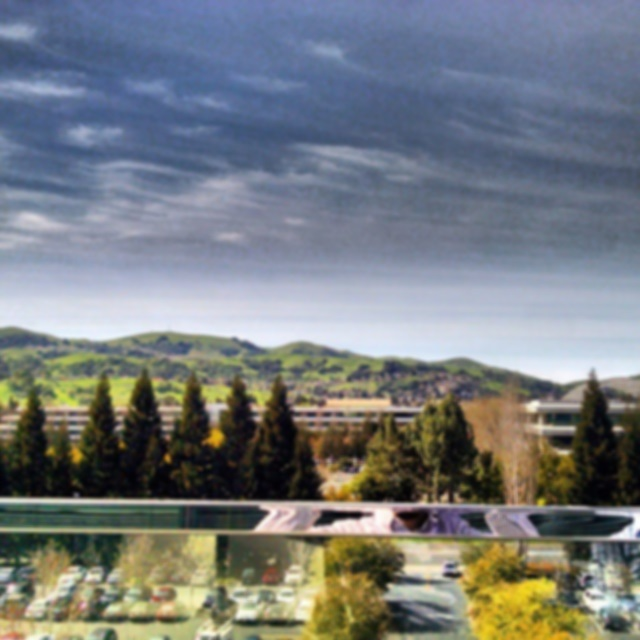
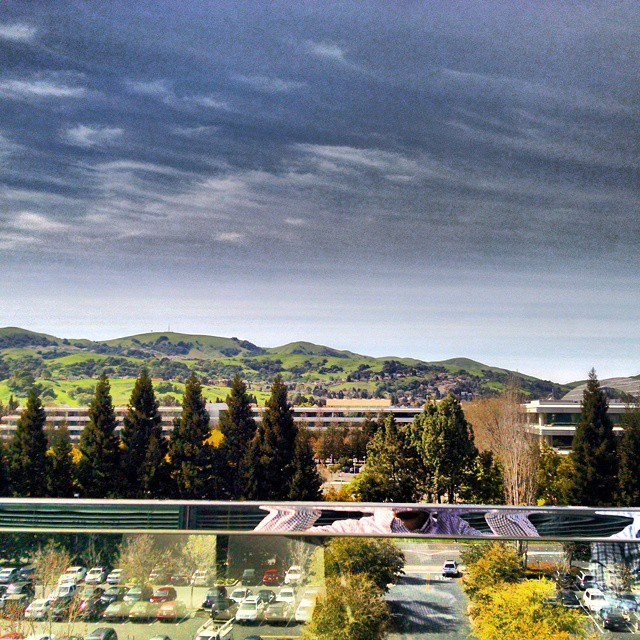
new stories, image optimizations. Remove fixed background-attachment due to bug with retina Macs

Changed region(s): [[0.0, 0.5, 1.0, 1.0]]

diff --git a/stories/stories.js b/stories/stories.js
@@ -11,19 +11,19 @@ module.exports = [
     {
       'title': 'Next Gen Ops API Architect',
       'date': 'Sept. 2014',
-      'imgSrc': 'ge_itlp100_pitch.jpg',
+      'imgSrc': 'itlp100_pitch.jpg',
       'imgDesc' : 'My team\'s final pitchout during ITLP initial training. We earned <a href="http://instagram.com/p/chefBfHLLW/">top honors</a> for our solution.',
       'text': '<p>For my third rotation, I worked as an API architect for GE’s Next Generation Operations initiatives. Partnering directly with the COO of IT at the company, I launched and delivered the first iteration of GE\'s next generation app tracking solution.</p> <p>As the sole developer of the implementation, I built a RESTful API with Node.js and PostgreSQL then integrated it with our company-wide OAuth2 provider for identity management. The application was one of the initial AWS deployments within the company, giving me the chance to document infrastructure best practices (Bash scripts, CloudFormation templates, etc) and partner with our cloud service owners to improve the developer experience within GE\'s VPCs.</p>'
     },
     {
       'title': 'Front-End Engineer',
-      'imgSrc': 'node_road.jpg',
+      'imgSrc': 'noderoad.jpg',
       'date': 'Mar. 2014',
       'text': '<p>I worked as a front end engineer during my second rotation, helping to launch a new home page for GE\'s 300,000+ employees. My main deliverable was building various components for one of the largest implementations of Angular.js in the world but I also got the chance to work across our <a href=" http://en.wikipedia.org/wiki/MEAN">tech stack</a>, refactoring the existing API server and building out new routes/3rd party integrations.</p>'
     },
     {
       'title': 'ServiceNow Project Manager',
-      'imgSrc': 'ge_amstc.jpg',
+      'imgSrc': 'amstc.jpg',
       'date': 'Aug. 2013',
       'imgDesc' : 'The Advanced Manufacturing and Software Technology Center in Van Buren Township, Michigan, where ITLP initial training was held.',
       'text': '<p>My first rotation was spent working within GE\'s <a href="http://www.servicenow.com/">ServiceNow</a> Center of Excellence managing part of the largest ServiceNow instance in the world. I owned technical implementation of our notification stream, working with a development team of four to push 70+ platform features to production.</p> <p>My other projects included helping GE Healthcare build out new ITIL processes within ServiceNow and managing the development of a new marketing portal for my organization.</p>'
@@ -31,12 +31,17 @@ module.exports = [
     {
       'title': 'ITLP Intern',
       'date': 'Summer 2012',
-      'imgSrc': 'ge_internship_offer.jpg',
+      'imgSrc': 'internship_offer.jpg',
       'text': '<p>Prior to my fulltime offer I interned within <a href="http://www.itlpblog.com/2012/07/30/collaboration-in-a-global-company/">GE\'s Global Infrastructure Services on our IP phone systems.</a> My summer was spent managing the integration of a 3rd party solution that enables self-service password reset functionality. I also had the opportunity to redesign my team\'s internal portal.</p>'
     }
   ],
   //Section 1
   [
+    {
+      'imgSrc': 'highscor.jpg',
+      'title': '<a href="https://github.com/travisbloom/highscore">Highscor</a>',
+      'text': 'Highscor is currently in development. The hybrid app helps people keep track of their personal bests in everything from social media reach to Reddit scores to weight loss. It\'s the "analytics dashboard for your life." Built with ES6 via Babel.js, Ionic (Angular + Cordova), and Node.js'
+    },
     {
       'imgSrc': 'myeasyclass.jpg',
       'title': 'MyEasyClass',
@@ -49,22 +54,22 @@ module.exports = [
     },
     {
       'title': 'travisbloom.me',
-      'imgSrc': 'code.jpg',
+      'imgSrc': 'ide.jpg',
       'text': '<p>My interest in web design/development started during my sophomore year of college. I used online tools like <a href="http://teamtreehouse.com/home">Team Treehouse</a> and <a hreg="http://www.codecademy.com/">Codeacademy</a> to teach myself the basics of HTML, CSS, and Javascript. </p> <p>This most recent version of travisbloom.me was built as a static, single page blog, with all the section content typed up in a single JSON file. When a new version of the site is deployed, Gulp.js compiles the stories data to a Handlebars.js template and inject the outputted html in to my index.html file. This setup allows me to easily update stories and add new content to respective sections. </p>'
     }
   ],
   [
     {
-      'imgSrc': 'uconn_husky.jpg',
+      'imgSrc': 'uconn.jpg',
       'text': '<p>I graduated summa cum laude from UConn in May of 2013 with a Degree in Management Information Systems and a cumulative GPA of 3.96. Courses like Accounting, Finance, and Management gave me a solid foundation in business while others like Software Development, Database Design, Data Mining, and Web Development allowed me to explore my passion for technology.</p>'
     },
     {
-      'imgSrc': 'uconn_hall_of_fame.jpg',
+      'imgSrc': 'hall_of_fame.jpg',
       'imgDesc': 'The award given to me during my induction.',
       'text': '<p>In addition to graduating as an Honors Scholar, I was <a href="http://www.business.uconn.edu/cms/p242/a706">one of the three undergraduates added to the UConn Business School Hall of Fame during 2013</a>. In my final month of school I was inducted as a Student Fellow for my academics, <a href="http://myeasyclass.com/">thesis work</a>, and extracurricular involvement.</p>'
     },
     {
-      'imgSrc': 'uconn_aepi.jpg',
+      'imgSrc': 'aepi.jpg',
       'imgDesc': 'Pledge books given out to potential new members of my fraternity, Alpha Epsilon Pi.',
       'text': '<p>Outside of the classroom I was a vocal leader within Greek life at UConn. Originally elected as Secretary of my fraternity sophomore year, I became President during fall of 2011. My year long term was spent managing a 9 man executive board, leading an 89 brother chapter with an operating budget of $75,000, and working with other Greek organizations to push our community in a positive direction.</p>'
     }

diff --git a/gulpfile.js b/gulpfile.js
@@ -11,7 +11,7 @@ var stories = require('./stories/stories');
 //compile less file, add autoprefixes
 gulp.task('styles', function () {
   return gulp.src('app/styles/main.less')
-    .pipe($.plumber())
+    //.pipe($.plumber())
     .pipe($.less())
     .pipe($.autoprefixer())
     .pipe(gulp.dest('.tmp/styles'));
@@ -20,8 +20,7 @@ gulp.task('styles', function () {
 gulp.task('compile-hbs', function () {
   //stories to add to the website
   var options = {
-    ignorePartials: true,
-    batch: ['./app/templates/partials']
+    ignorePartials: true
   };
   return gulp.src('app/templates/**/*.hbs')
     .pipe($.compileHandlebars(stories, options))
@@ -102,10 +101,12 @@ gulp.task('images', function () {
   return gulp.src([
     'app/images/**/*'
   ])
-    .pipe($.cache($.imagemin({
-      progressive: true,
-      interlaced: true
-    })))
+    .pipe(
+    $.cache(
+      $.imagemin({
+      optimizationLevel: 7
+    })
+    ))
     .pipe(gulp.dest('dist/images'));
 });
 

diff --git a/app/styles/categories.less b/app/styles/categories.less
@@ -71,12 +71,14 @@
       position: relative;
       .background {
         position: absolute;
-        height: 100%;
-        width: 100%;
+        height: 102%;
+        width: 102%;
+        filter: blur(3px);
         background-size: cover;
         background-repeat: no-repeat;
-        background-attachment: fixed;
         background-position: center;
+        //TODO add this back once Chrome for Mac has fixed its issues
+        //background-attachment: fixed;
         //in case images don't load, prevent background items from being shown
         background-color: @background-color;
       }
@@ -100,7 +102,7 @@
         margin-top: 200px;
         margin-bottom: 200px;
         background: rgb(0, 0, 0); /* Fall-back for browsers that don't support rgba */
-        background: rgba(0, 0, 0, .8);
+        background: rgba(0, 0, 0, .9);
         color: @background-color;
         padding: @large-spacing @large-spacing;
         border-radius: @large-spacing / 2;
